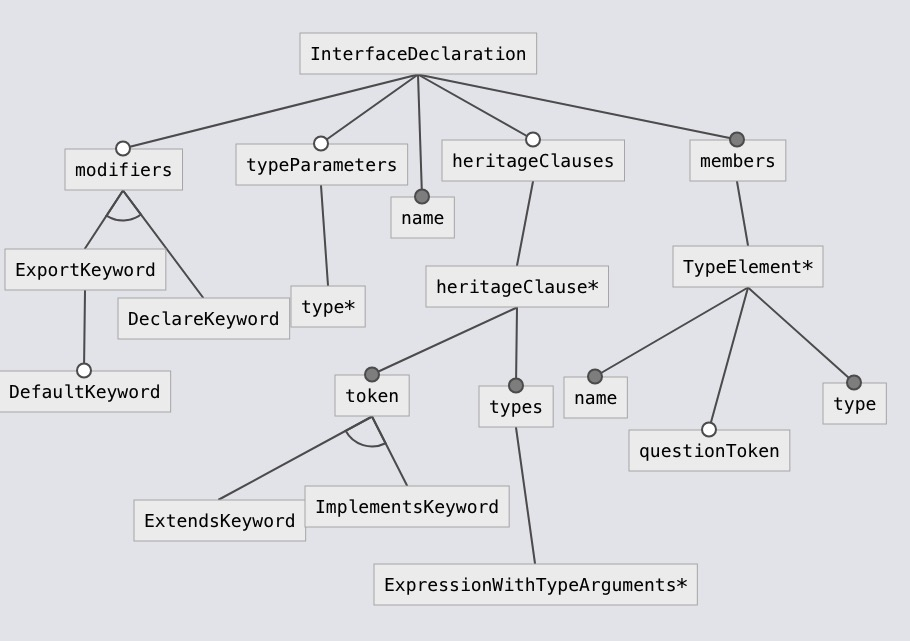
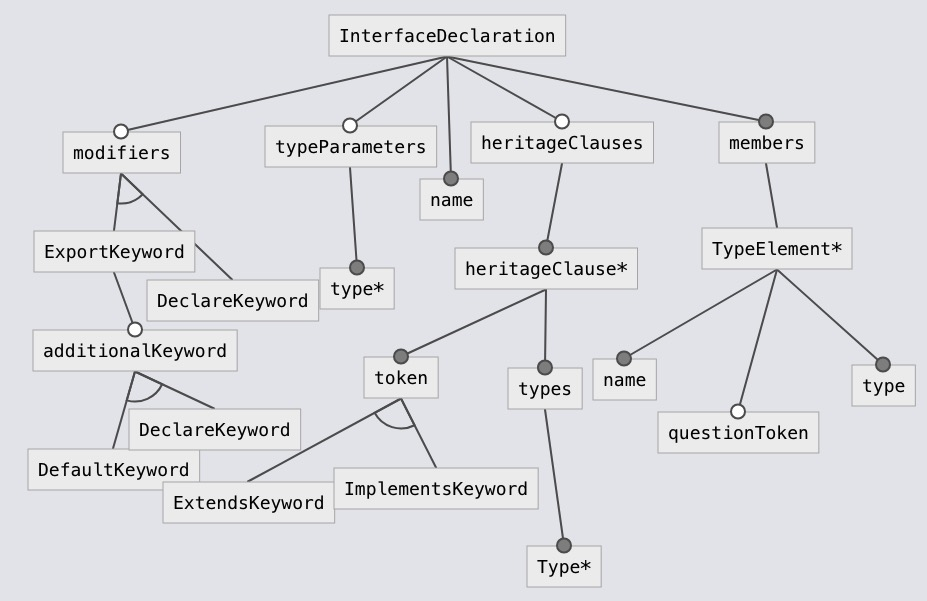
updated interfaces

Changed region(s): [[0.0, 0.0, 0.9231, 0.9884], [0.8923, 0.5391, 0.9846, 0.6889], [0.5846, 0.7188, 0.6154, 0.7488]]

diff --git a/3groupMembersModel/interface/code.ts b/3groupMembersModel/interface/code.ts
@@ -12,8 +12,17 @@ export const InterfaceDeclaration: FeatureModel = {
           name: "ExportKeyword",
           children: [
             {
-              name: "DefaultKeyword",
+              name: "additionalKeyword",
               parentRelation: "optional",
+              childrenRelation: "xor",
+              children: [
+                {
+                  name: "DefaultKeyword",
+                },
+                {
+                  name: "DeclareKeyword",
+                },
+              ],
             },
           ],
         },
@@ -22,21 +31,39 @@ export const InterfaceDeclaration: FeatureModel = {
         },
       ],
     },
-    { name: "name", parentRelation: "mandatory" },
+    {
+      name: "name",
+      parentRelation: "mandatory",
+    },
+    {
+      name: "typeParameters",
+      parentRelation: "optional",
+      children: [
+        {
+          name: "type*",
+          parentRelation: "mandatory",
+        },
+      ],
+    },
     {
       name: "heritageClauses",
       parentRelation: "optional",
       children: [
         {
           name: "heritageClause*",
+          parentRelation: "mandatory",
           children: [
             {
               name: "token",
-              childrenRelation: "xor",
               parentRelation: "mandatory",
+              childrenRelation: "xor",
               children: [
-                { name: "ExtendsKeyword" },
-                { name: "ImplementsKeyword" },
+                {
+                  name: "ExtendsKeyword",
+                },
+                {
+                  name: "ImplementsKeyword",
+                },
               ],
             },
             {
@@ -44,8 +71,8 @@ export const InterfaceDeclaration: FeatureModel = {
               parentRelation: "mandatory",
               children: [
                 {
-                  name: "type*",
-                  children: [{ name: "ExpressionWithTypeArguments" }],
+                  name: "Type*",
+                  parentRelation: "mandatory",
                 },
               ],
             },
@@ -55,13 +82,23 @@ export const InterfaceDeclaration: FeatureModel = {
     },
     {
       name: "members",
+      parentRelation: "mandatory",
       children: [
         {
           name: "TypeElement*",
           children: [
-            { name: "name", parentRelation: "mandatory" },
-            { name: "questionToken", parentRelation: "optional" },
-            { name: "type", parentRelation: "mandatory" },
+            {
+              name: "name",
+              parentRelation: "mandatory",
+            },
+            {
+              name: "questionToken",
+              parentRelation: "optional",
+            },
+            {
+              name: "type",
+              parentRelation: "mandatory",
+            },
           ],
         },
       ],
